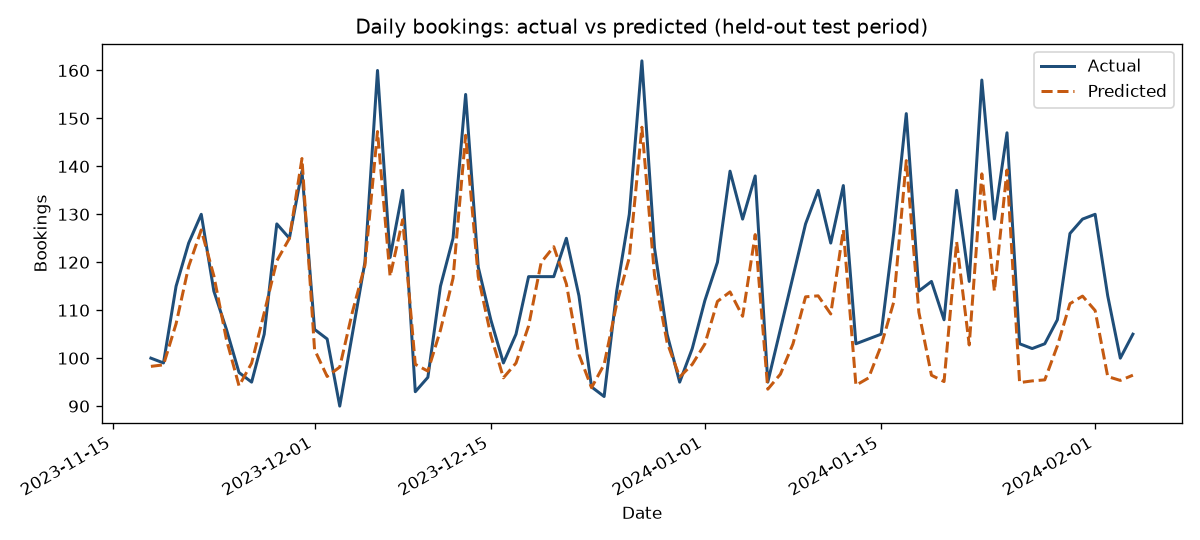
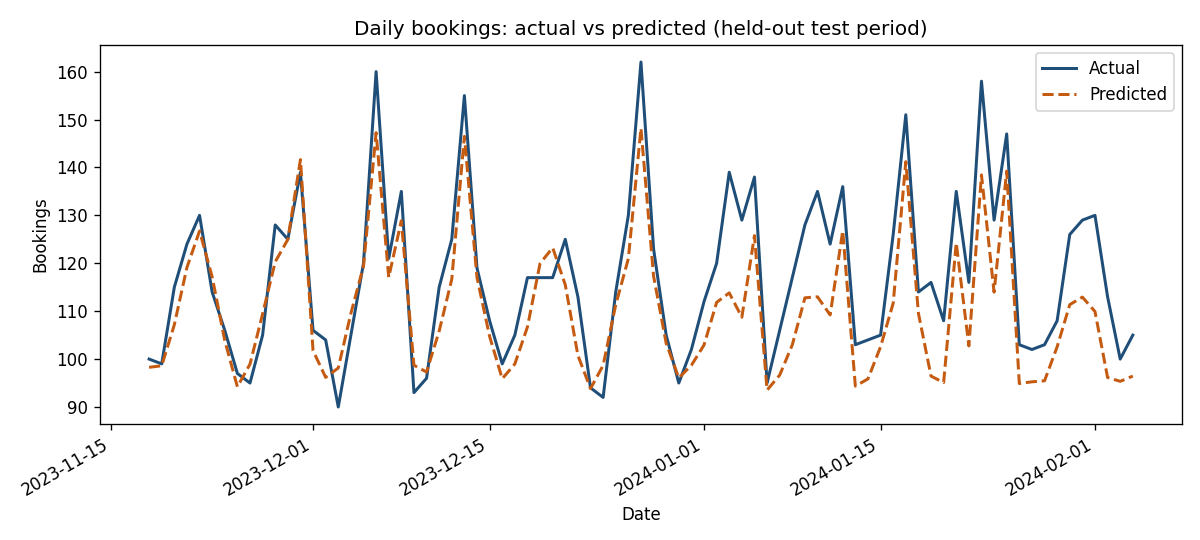
Genericize the illustrative traps, complete the changelog date, note metric determinism

diff --git a/06_agentic_engineering/examples/example_hook.md b/06_agentic_engineering/examples/example_hook.md
@@ -17,8 +17,8 @@ file="$1"
 fail=0
 
 # Known column-name traps (misspellings that parse but return wrong data).
-if grep -qiE '\bRES_ADULTS\b' "$file"; then
-  echo "TRAP: column is RES_ADULT (singular), not RES_ADULTS" >&2
+if grep -qiE '\bGUEST_COUNTS\b' "$file"; then
+  echo "TRAP: column is GUEST_COUNT (singular), not GUEST_COUNTS" >&2
   fail=1
 fi
 
@@ -29,9 +29,9 @@ if grep -qiE "(=|<>)\s*''" "$file"; then
 fi
 
 # A composite key joined on only half its columns returns duplicates.
-if grep -qiE 'JOIN\s+origin_lookup\b' "$file" && \
-   ! grep -qiE 'origin_cd' "$file"; then
-  echo "TRAP: origin_lookup requires the composite key (source + origin)" >&2
+if grep -qiE 'JOIN\s+channel_lookup\b' "$file" && \
+   ! grep -qiE 'subchannel_cd' "$file"; then
+  echo "TRAP: channel_lookup requires the composite key (channel + subchannel)" >&2
   fail=1
 fi
 

diff --git a/03_ml_forecasting/README.md b/03_ml_forecasting/README.md
@@ -31,6 +31,9 @@ cross-validation. On the held-out period:
 | R-squared | 0.654 |
 | Time-series CV MAE | 5.76 bookings |
 
+The run is seeded, so these figures are deterministic for a given environment;
+expect small drift across scikit-learn or numpy versions.
+
 ![Daily bookings: actual vs predicted](outputs/forecast_vs_actual.png)
 
 The predictions track the weekly rhythm and promotion spikes. The model

diff --git a/04_mentorship/exercises.md b/04_mentorship/exercises.md
@@ -95,7 +95,7 @@ read the result with no legend.
 
 **Solution.** There is no single right answer, but the habit is: name a column
 for the state the reader cares about, not the database encoding. `flg_actv_1`
-becomes `is_active`. `res_typ = 'C'` surfaced as a column becomes `status` with
+becomes `is_active`. `stat_cd = 'C'` surfaced as a column becomes `status` with
 values like `Confirmed`. The reader should never need a decoder.
 
 The lesson: the last mile of an analysis is making it legible. Clear names are

diff --git a/CHANGELOG.md b/CHANGELOG.md
@@ -3,7 +3,7 @@
 All notable changes to this portfolio are recorded here. Format loosely follows
 [Keep a Changelog](https://keepachangelog.com/).
 
-## [2.0.0] - 2025
+## [2.0.0] - 2026-07-17
 
 A full overhaul focused on correctness, structure, and reproducibility.
 